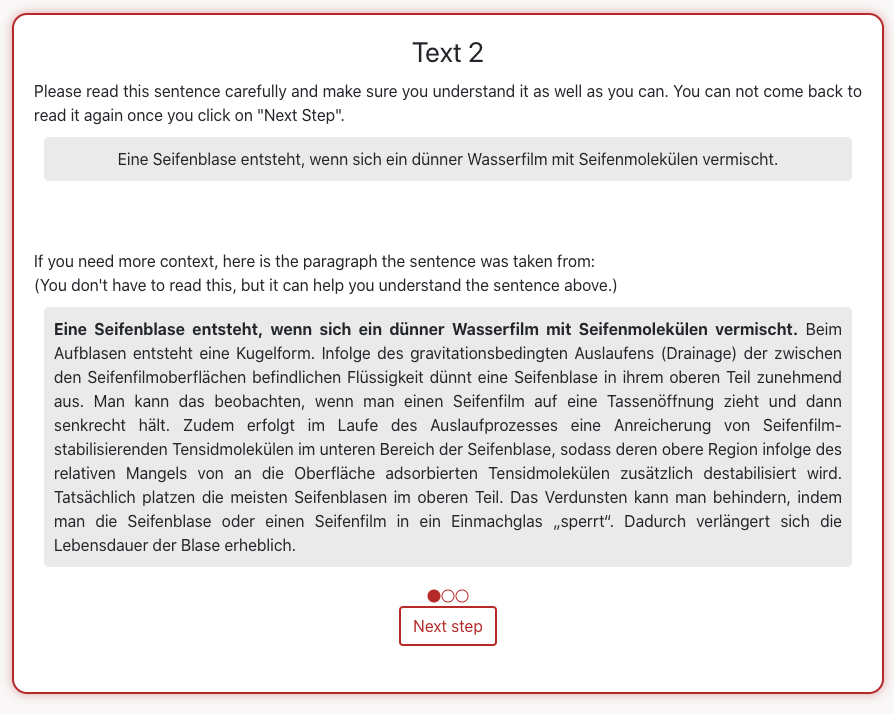
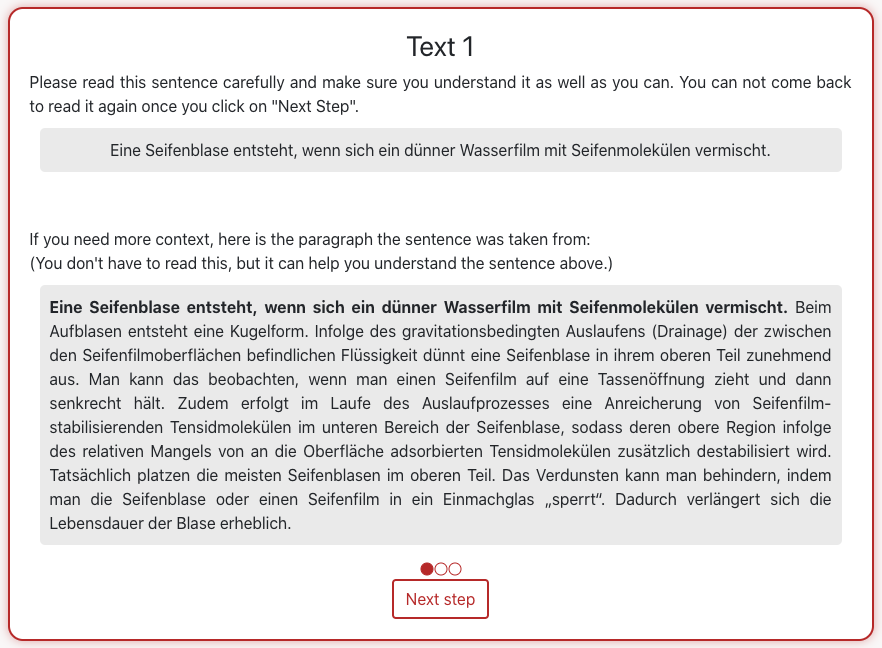
better display of multiple images

Changed region(s): [[0.0, 0.0, 1.0, 1.0], [0.1224, 0.216, 0.8878, 0.2469]]

diff --git a/website/frontend/src/components/Instructions.js b/website/frontend/src/components/Instructions.js
@@ -69,18 +69,18 @@ const Instructions = props => {
           was taken from. You don't <em>have</em> to read it, but it can help
           you understand the sentence.
           <br />
-          For paragraphs, we will measure how long it takes to read them, so the
+          For paragraphs we will measure how long it takes to read them, so the
           text will be hidden unless you hold a button below the text. Please
           make sure you read the entire paragraph and understand it as well as
           you can.
           <span className="img-wrap img-2">
             <img
-              src="instructions-read.gif"
+              src="instructions-read-sentence.png"
               alt="GIF of the page where you can read the text. The heading says 'TODO' but the text is hidden by a light blue block. A cursor appears, presses a button labeled 'TODO' and the block disappears, making the text readable as long as the button is held, the the block appears again."
               className="instruction-img"
             />
             <img
-              src="instructions-read-sentence.png"
+              src="instructions-read-paragraph.gif"
               alt="GIF of the page where you can read the text. The heading says 'TODO' but the text is hidden by a light blue block. A cursor appears, presses a button labeled 'TODO' and the block disappears, making the text readable as long as the button is held, the the block appears again."
               className="instruction-img"
             />

diff --git a/website/frontend/src/styles/Instructions.css b/website/frontend/src/styles/Instructions.css
@@ -15,7 +15,8 @@
 }
 
 .img-2 > img {
-  width: 50%;
+  width: 47%;
+  margin: auto;
 }
 
 .login-input {
